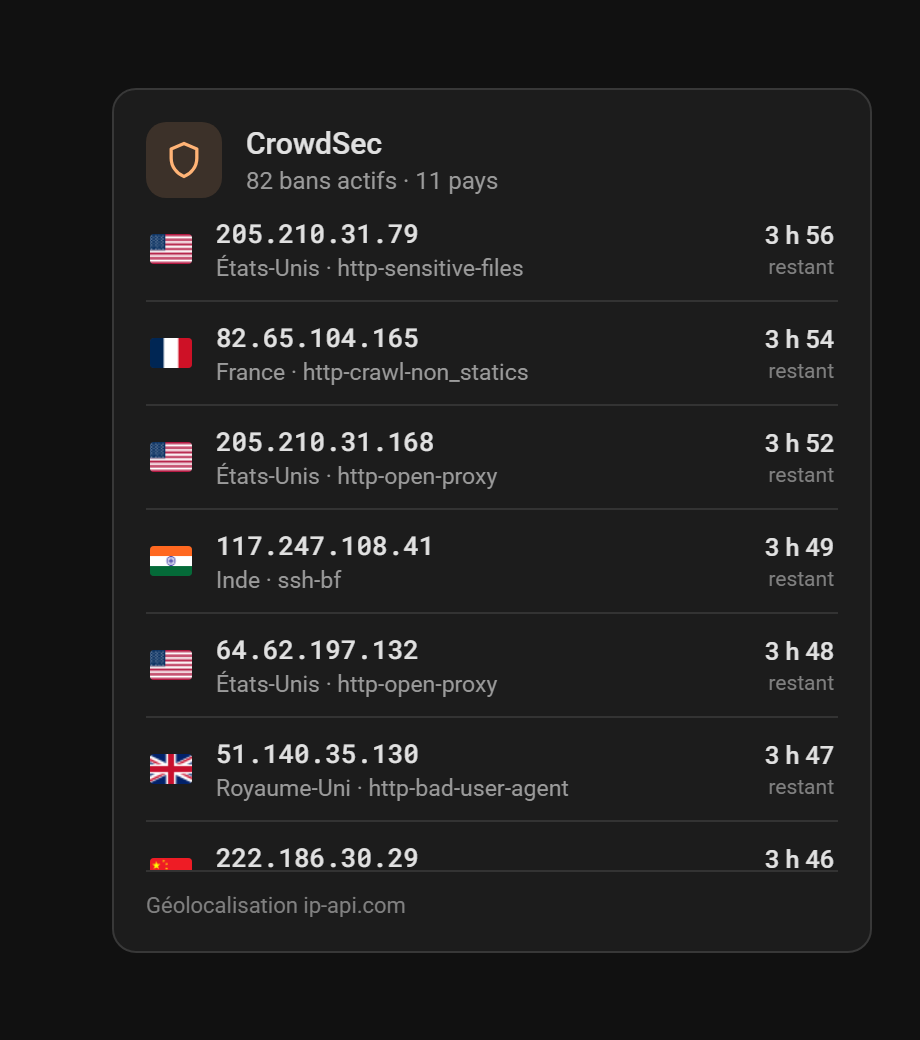
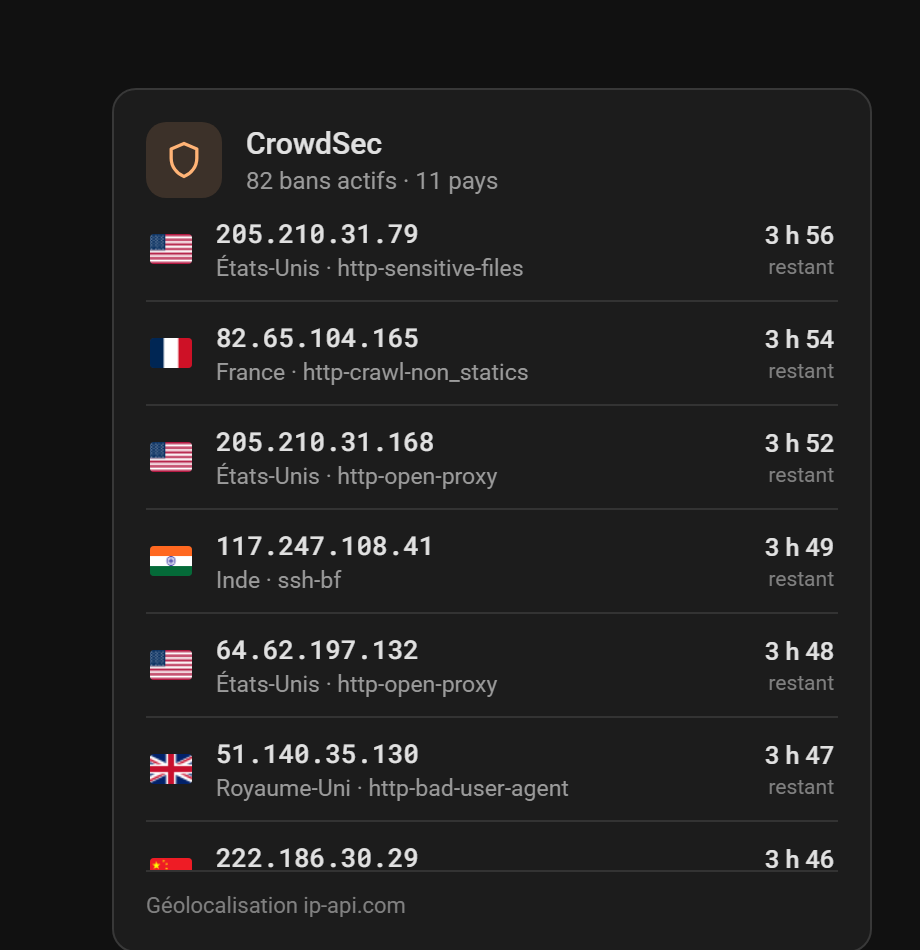
Replace the in-card view toggle with a view config option
The List/Map segmented control is gone: the view is now picked in
the card editor via `view` (auto | list | map). `auto` keeps the
responsive behavior (list, plus the map side by side when wide);
show_map: false is still honored and behaves like view: list.
Harness, captures and README updated accordingly.

diff --git a/custom_components/crowdsec/www/crowdsec-card.js b/custom_components/crowdsec/www/crowdsec-card.js
@@ -25,8 +25,6 @@ const ZERO = { light: "#ececef", dark: "#2b2b2f" };
 const STRINGS = {
   fr: {
     subtitle: (n, p) => `${n} ban${n > 1 ? "s" : ""} actif${n > 1 ? "s" : ""} · ${p} pays`,
-    list: "Liste",
-    map: "Carte",
     remaining: "restant",
     top: "Top pays",
     empty: "Aucun ban actif",
@@ -38,8 +36,6 @@ const STRINGS = {
   },
   en: {
     subtitle: (n, p) => `${n} active ban${n > 1 ? "s" : ""} · ${p} countr${p > 1 ? "ies" : "y"}`,
-    list: "List",
-    map: "Map",
     remaining: "left",
     top: "Top countries",
     empty: "No active ban",
@@ -93,8 +89,6 @@ function fireEvent(node, type, detail) {
 }
 
 const SHIELD = `<svg width="22" height="22" viewBox="0 0 24 24" fill="none" stroke-width="1.8" stroke-linejoin="round"><path d="M12 3l7 3v5c0 4.5-3 8.5-7 10-4-1.5-7-5.5-7-10V6l7-3z"></path></svg>`;
-const ICON_LIST = `<svg width="15" height="15" viewBox="0 0 24 24" fill="none" stroke="currentColor" stroke-width="2" stroke-linecap="round"><path d="M8 6h13M8 12h13M8 18h13"></path><path d="M3.5 6h.01M3.5 12h.01M3.5 18h.01"></path></svg>`;
-const ICON_MAP = `<svg width="15" height="15" viewBox="0 0 24 24" fill="none" stroke="currentColor" stroke-width="2"><circle cx="12" cy="12" r="9"></circle><path d="M3 12h18"></path><path d="M12 3c3 3.5 3 14.5 0 18M12 3c-3 3.5-3 14.5 0 18"></path></svg>`;
 
 class CrowdsecCard extends HTMLElement {
   static getConfigElement() {
@@ -111,13 +105,12 @@ class CrowdsecCard extends HTMLElement {
   constructor() {
     super();
     this.attachShadow({ mode: "open" });
-    this._view = "list";
     this._filter = null;
     this._wide = false;
   }
 
   setConfig(config) {
-    this._config = { show_map: true, palette: "menace", ...config };
+    this._config = { show_map: true, palette: "menace", view: "auto", ...config };
     this._filter = null;
     this._invalidate();
   }
@@ -214,8 +207,9 @@ class CrowdsecCard extends HTMLElement {
     const accent = steps[this._dark ? 4 : 3];
     const accentBg = tint(accent, this._dark ? 0.14 : 0.12);
     const showMap = this._config.show_map !== false;
-    const wide = this._wide && showMap;
-    const view = !showMap ? "list" : this._view;
+    const viewCfg = showMap ? this._config.view || "auto" : "list";
+    const wide = this._wide && viewCfg === "auto" && showMap;
+    const view = viewCfg === "map" ? "map" : "list";
 
     const style = `
       <style>
@@ -232,12 +226,6 @@ class CrowdsecCard extends HTMLElement {
         .titles { display: flex; flex-direction: column; gap: 2px; min-width: 0; }
         .title { font-size: 15px; font-weight: 500; color: var(--primary-text-color); }
         .subtitle { font-size: 12px; color: var(--secondary-text-color); }
-        .seg { display: flex; background: var(--secondary-background-color); border-radius: 10px; padding: 3px; gap: 3px; }
-        .seg button { flex: 1 1 0; height: 30px; border: none; border-radius: 8px; background: transparent;
-          display: flex; align-items: center; justify-content: center; gap: 6px; font: inherit; font-size: 13px;
-          font-weight: 500; color: var(--secondary-text-color); cursor: pointer; }
-        .seg button.on { background: var(--card-background-color); color: var(--primary-text-color);
-          box-shadow: 0 1px 2px rgba(0,0,0,0.18); }
         .rows { display: flex; flex-direction: column; max-height: 336px; overflow-y: auto; }
         .row { display: flex; align-items: center; gap: 12px; padding: 9px 2px; }
         .row + .row { border-top: 1px solid var(--divider-color); }
@@ -297,13 +285,6 @@ class CrowdsecCard extends HTMLElement {
           <span class="subtitle">${esc(t.subtitle(decisions.length, countryCount))}</span>
         </div>
       </div>`;
-
-    const seg = showMap && !wide
-      ? `<div class="seg">
-          <button class="${view === "list" ? "on" : ""}" data-view="list">${ICON_LIST}<span>${t.list}</span></button>
-          <button class="${view === "map" ? "on" : ""}" data-view="map">${ICON_MAP}<span>${t.map}</span></button>
-        </div>`
-      : "";
 
     const shown = this._filter ? decisions.filter((d) => d.country === this._filter) : decisions;
     const rows = shown.length
@@ -382,7 +363,7 @@ class CrowdsecCard extends HTMLElement {
           <div class="vsep"></div>
           <div class="col-map">${mapCol}</div>
         </div>`
-      : `${header}${seg}${view === "map" ? mapCol : rows}${view === "map" ? "" : footer}`;
+      : `${header}${view === "map" ? mapCol : rows}${view === "map" ? "" : footer}`;
 
     this.shadowRoot.innerHTML = `${style}<ha-card>${body}</ha-card>`;
     this._wire();
@@ -390,12 +371,6 @@ class CrowdsecCard extends HTMLElement {
 
   _wire() {
     const root = this.shadowRoot;
-    root.querySelectorAll(".seg button").forEach((b) =>
-      b.addEventListener("click", () => {
-        this._view = b.dataset.view;
-        this._invalidate();
-      })
-    );
     const wrap = root.querySelector(".map-wrap");
     if (!wrap) return;
     const tooltip = wrap.querySelector(".tooltip");
@@ -418,7 +393,6 @@ class CrowdsecCard extends HTMLElement {
         const cc = p.dataset.cc;
         if (!cc || !+p.dataset.count) return;
         this._filter = this._filter === cc ? null : cc;
-        if (!this._wide) this._view = "list";
         this._invalidate();
       });
     });
@@ -427,7 +401,7 @@ class CrowdsecCard extends HTMLElement {
 
 class CrowdsecCardEditor extends HTMLElement {
   setConfig(config) {
-    this._config = { show_map: true, palette: "menace", ...config };
+    this._config = { palette: "menace", view: "auto", ...config };
     this._render();
   }
 
@@ -440,7 +414,19 @@ class CrowdsecCardEditor extends HTMLElement {
     return [
       { name: "entity", selector: { entity: { domain: "sensor" } } },
       { name: "title", selector: { text: {} } },
-      { name: "show_map", selector: { boolean: {} } },
+      {
+        name: "view",
+        selector: {
+          select: {
+            mode: "dropdown",
+            options: [
+              { value: "auto", label: fr ? "Automatique (liste + carte en large)" : "Automatic (list + map when wide)" },
+              { value: "list", label: fr ? "Liste seule" : "List only" },
+              { value: "map", label: fr ? "Carte seule" : "Map only" },
+            ],
+          },
+        },
+      },
       {
         name: "palette",
         selector: {
@@ -466,7 +452,7 @@ class CrowdsecCardEditor extends HTMLElement {
         ({
           entity: fr ? "Entité (auto-détectée si vide)" : "Entity (auto-detected if empty)",
           title: fr ? "Titre" : "Title",
-          show_map: fr ? "Afficher la carte du monde" : "Show the world map",
+          view: fr ? "Vue" : "View",
           palette: fr ? "Palette du dégradé" : "Gradient palette",
         }[s.name] || s.name);
       this._form.addEventListener("value-changed", (ev) => {

diff --git a/docs/screenshot-harness.html b/docs/screenshot-harness.html
@@ -93,7 +93,7 @@ const hass = {
   },
 };
 
-function addCard(config, { width = 380, view = null, caption = null, swatch = null } = {}) {
+function addCard(config, { width = 380, caption = null, swatch = null } = {}) {
   const cell = document.createElement("div");
   cell.className = "cell";
   cell.style.width = `${width}px`;
@@ -105,7 +105,6 @@ function addCard(config, { width = 380, view = null, caption = null, swatch = nu
   }
   const card = document.createElement("crowdsec-card");
   card.setConfig(config);
-  if (view) card._view = view; // vue initiale forcée pour la capture
   cell.appendChild(card);
   document.getElementById("stage").appendChild(cell);
   card.hass = hass;
@@ -115,15 +114,15 @@ function addCard(config, { width = 380, view = null, caption = null, swatch = nu
 const PAGES = {
   hero: () => addCard({}, { width: 900 }),
   views: () => {
-    addCard({}, { caption: "Vue Liste" });
-    addCard({}, { view: "map", caption: "Vue Carte" });
+    addCard({ view: "list" }, { caption: "view: list" });
+    addCard({ view: "map" }, { caption: "view: map" });
   },
   palettes: () => {
-    addCard({ palette: "menace" }, { view: "map", caption: "menace", swatch: "#a94e17" });
-    addCard({ palette: "ocean" }, { view: "map", caption: "océan", swatch: "#3f73b4" });
-    addCard({ palette: "amethyste" }, { view: "map", caption: "améthyste", swatch: "#8351b3" });
+    addCard({ palette: "menace", view: "map" }, { caption: "menace", swatch: "#a94e17" });
+    addCard({ palette: "ocean", view: "map" }, { caption: "océan", swatch: "#3f73b4" });
+    addCard({ palette: "amethyste", view: "map" }, { caption: "améthyste", swatch: "#8351b3" });
   },
-  compact: () => addCard({ show_map: false }, {}),
+  compact: () => addCard({ view: "list" }, {}),
 };
 (PAGES[page] || PAGES.hero)();
 </script>

diff --git a/docs/CAPTURES.md b/docs/CAPTURES.md
@@ -17,9 +17,9 @@ chrome --headless=new --disable-gpu --allow-file-access-from-files \
 | Page | Contenu | Taille fenêtre |
 |---|---|---|
 | `hero` | carte large 2 colonnes (liste + mapmonde) | 940,515 |
-| `views` | vues Liste et Carte côte à côte (étroit) | 840,570 |
-| `palettes` | les 3 palettes du dégradé, vue Carte | 1260,525 |
-| `compact` | `show_map: false`, liste seule | 460,520 |
+| `views` | `view: list` et `view: map` côte à côte (étroit) | 840,530 |
+| `palettes` | les 3 palettes du dégradé, `view: map` | 1260,485 |
+| `compact` | `view: list`, liste seule | 460,475 |
 
 Chaque page existe en `mode=light` et `mode=dark` (`&lang=en` disponible).
 Les fichiers vont dans `images/` sous le nom `<page>-<mode>.png`.
